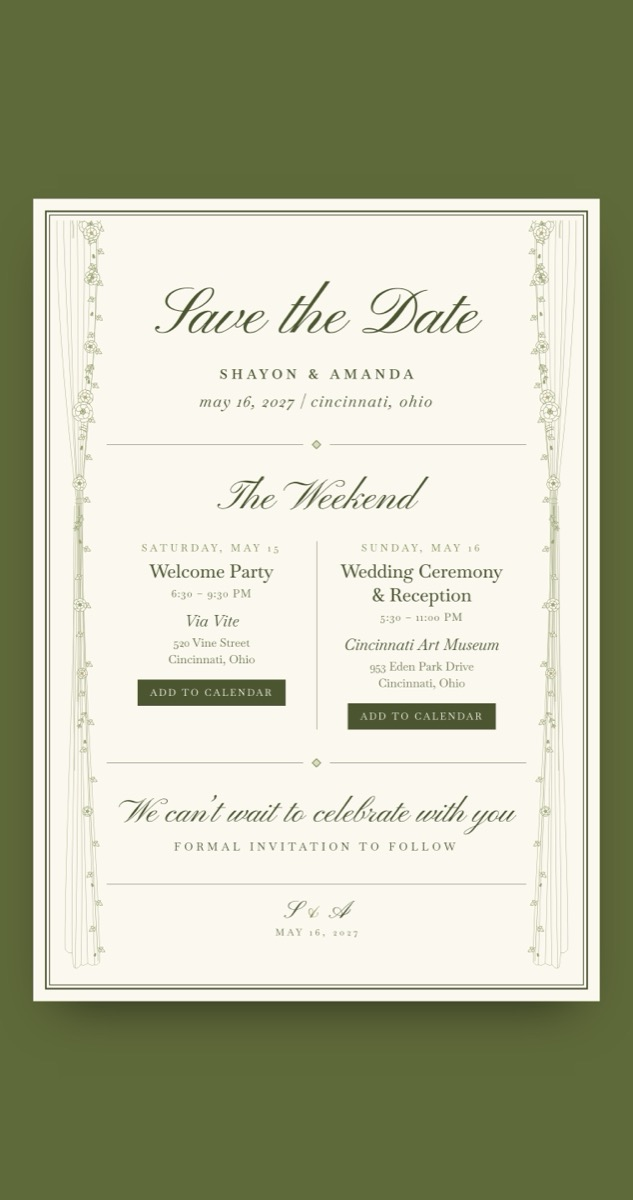
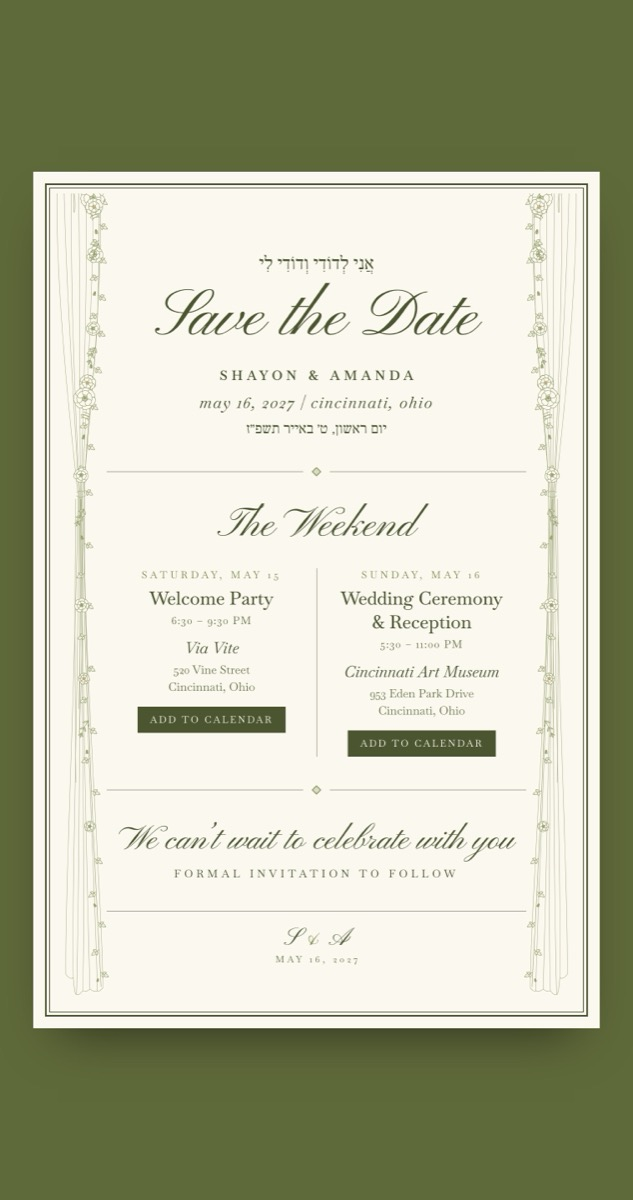
Refresh share images with the Hebrew verse and date

Changed region(s): [[0.03, 0.1233, 0.9605, 0.8633], [0.4202, 0.2158, 0.7504, 0.2775], [0.2401, 0.2158, 0.4202, 0.2775]]

diff --git a/index.html b/index.html
@@ -13,14 +13,14 @@
 <meta property="og:type" content="website" />
 <meta property="og:url" content="https://shayon297.github.io/save-the-date/" />
 <meta property="og:site_name" content="Shayon &amp; Amanda" />
-<meta property="og:image" content="https://shayon297.github.io/save-the-date/assets/og.jpg?v=2" />
+<meta property="og:image" content="https://shayon297.github.io/save-the-date/assets/og.jpg?v=3" />
 <meta property="og:image:width" content="1200" />
 <meta property="og:image:height" content="630" />
 <meta property="og:image:alt" content="Save the Date — Shayon Sengupta and Amanda Young, May 16, 2027, Cincinnati Art Museum" />
 <meta name="twitter:card" content="summary_large_image" />
 <meta name="twitter:title" content="Save the Date — Shayon &amp; Amanda" />
 <meta name="twitter:description" content="Sunday, May 16, 2027 · Cincinnati Art Museum · Cincinnati, Ohio" />
-<meta name="twitter:image" content="https://shayon297.github.io/save-the-date/assets/og.jpg?v=2" />
+<meta name="twitter:image" content="https://shayon297.github.io/save-the-date/assets/og.jpg?v=3" />
 
 <link rel="preconnect" href="https://fonts.googleapis.com">
 <link rel="preconnect" href="https://fonts.gstatic.com" crossorigin>
